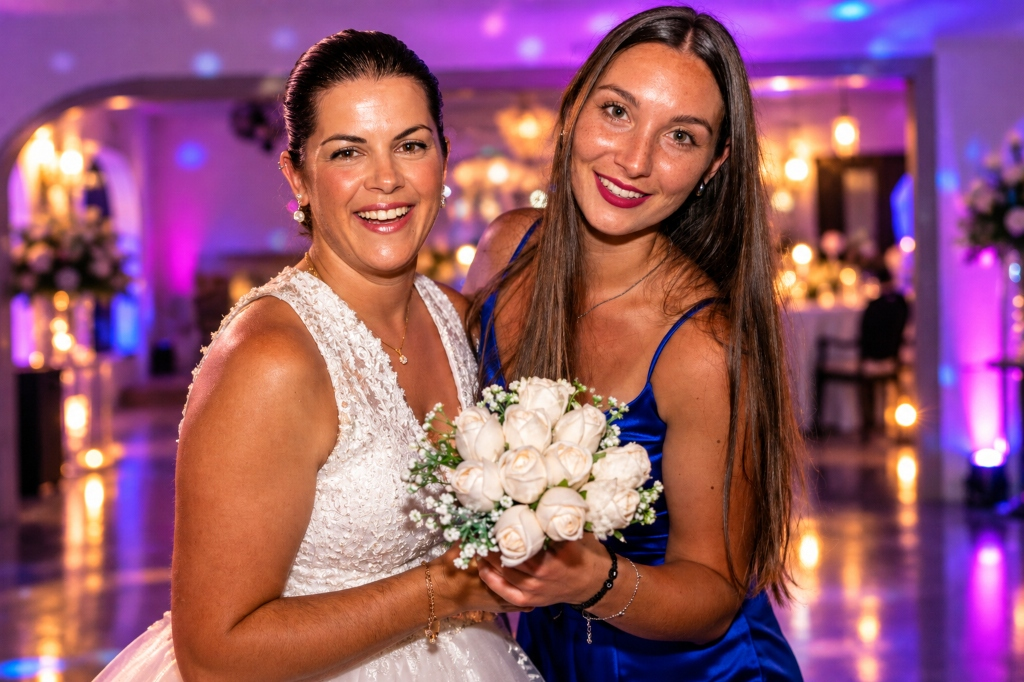
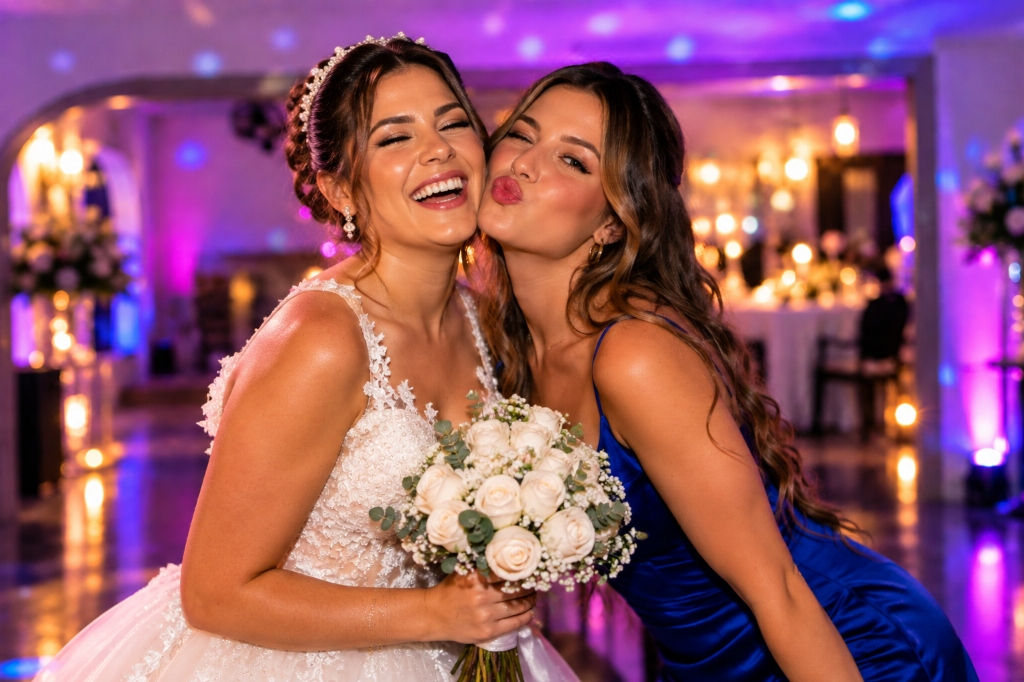
Update fotografias

diff --git a/src/data/service-details.ts b/src/data/service-details.ts
@@ -1,22 +1,22 @@
+import bodasEventoImage from '../assets/event-types/bodas-evento.jpg';
+import espejoMagicoEventoImage from '../assets/services/espejo-magico-evento.jpg';
+import fotografiaQuinceaneraImage from '../assets/services/fotografia-quinceanera.jpg';
 import espejoMagicoAccesoriosImage from '../assets/service-details/espejo-magico/espejo-magico-accesorios.jpg';
 import espejoMagicoFirmaImage from '../assets/service-details/espejo-magico/espejo-magico-firma.jpg';
 import espejoMagicoInteraccionImage from '../assets/service-details/espejo-magico/espejo-magico-interaccion.jpg';
 import espejoMagicoTirasXxlImage from '../assets/service-details/espejo-magico/espejo-magico-tiras-xxl.png';
-import filmacionEventoImage from '../assets/services/filmacion-evento.jpg';
-import fotografiaAbuelaNietaImage from '../assets/service-details/fotografia/fotografia-abuela-nieta.jpg';
 import fotografiaAlasIridiscentesImage from '../assets/service-details/fotografia/fotografia-alas-iridiscentes.jpg';
 import fotografiaAlasPistaImage from '../assets/service-details/fotografia/fotografia-alas-pista.jpg';
 import fotografiaAmigasVaquerasImage from '../assets/service-details/fotografia/fotografia-amigas-vaqueras.jpg';
 import fotografiaAmigasVelaImage from '../assets/service-details/fotografia/fotografia-amigas-vela.jpg';
 import fotografiaAmigosBrindisImage from '../assets/service-details/fotografia/fotografia-amigos-brindis.jpg';
 import fotografiaBebeJardinImage from '../assets/service-details/fotografia/fotografia-bebe-jardin.jpg';
-import fotografiaBodaRamoImage from '../assets/service-details/fotografia/fotografia-boda-ramo.jpg';
 import fotografiaCumpleanos80VelasImage from '../assets/service-details/fotografia/fotografia-cumpleanos-80-velas.jpg';
-import fotografiaNinasAntifazImage from '../assets/service-details/fotografia/fotografia-ninas-antifaz.jpg';
 import fotografiaQuinceaneraCorredorImage from '../assets/service-details/fotografia/fotografia-quinceanera-corredor.jpg';
+import fotografiaRetratoNeonImage from '../assets/service-details/fotografia/fotografia-retrato-neon.jpg';
 import fotografiaRetratoVestidoRosaImage from '../assets/service-details/fotografia/fotografia-retrato-vestido-rosa.jpg';
 import fotografiaSoplandoVelasImage from '../assets/service-details/fotografia/fotografia-soplando-velas.jpg';
-import fotografiaValsPadreImage from '../assets/service-details/fotografia/fotografia-vals-padre.jpg';
+import fotografiaBodaCotillonImage from '../assets/service-details/fotografia/fotografia-boda-cotillon.jpg';
 import partycubeBodaAccesoriosImage from '../assets/service-details/partycube/partycube-boda-accesorios.jpg';
 import partycubeInvitadosCotillonImage from '../assets/service-details/partycube/partycube-invitados-cotillon.jpg';
 import partycubeInvitadosSombrerosImage from '../assets/service-details/partycube/partycube-invitados-sombreros.jpg';
@@ -27,8 +27,6 @@ import partyrbotInteraccionInvitadosImage from '../assets/service-details/partyr
 import type { Service, ServiceDetail } from '../types/service';
 import { services } from './services';
 
-const fotografia = services.find((service) => service.id === 'fotografia')!;
-const espejoMagico = services.find((service) => service.id === 'espejo-magico')!;
 const cabinaBoomerang = services.find((service) => service.id === 'cabina-boomerang')!;
 const robotLed = services.find((service) => service.id === 'robot-led')!;
 
@@ -44,7 +42,12 @@ export const serviceDetails: readonly ServiceDetail[] = [
         'Espejo Mágico es mucho más que una cabina de fotos: es una experiencia interactiva que suma diversión a tu evento, invita a todos a participar y captura esos momentos espontáneos que hacen única cada celebración.',
         'Fotos impresas al instante y listas para descargar en tu celular, para que cada invitado se lleve un recuerdo especial.',
       ],
-      image: espejoMagico.image,
+      image: {
+        src: espejoMagicoEventoImage,
+        alt: 'Dos personas posando con accesorios frente a una cortina metálica azul y violeta durante una experiencia de Espejo Mágico.',
+        width: 1024,
+        height: 706,
+      },
       highlights: [
         'Impresiones ilimitadas',
         'Descarga al celular',
@@ -125,7 +128,7 @@ export const serviceDetails: readonly ServiceDetail[] = [
       openGraphTitle: 'Espejo Mágico | PartyTime Uruguay',
       openGraphDescription:
         'Una experiencia interactiva con impresiones ilimitadas, descarga al celular y recuerdos personalizados para tu celebración.',
-      openGraphImage: espejoMagico.image.src,
+      openGraphImage: espejoMagicoEventoImage,
     },
   },
   {
@@ -402,8 +405,8 @@ export const serviceDetails: readonly ServiceDetail[] = [
         'Una mirada natural y cuidada para que, cuando vuelvas a ver las fotos, puedas volver a sentir ese momento.',
       ],
       image: {
-        src: filmacionEventoImage,
-        alt: 'Joven sonriendo con naturalidad durante una celebración iluminada con luces cálidas.',
+        src: fotografiaRetratoNeonImage,
+        alt: 'Quinceañera sonriendo apoyada sobre una mesa de vidrio frente a un cartel de neón durante una celebración.',
         width: 683,
         height: 1024,
         objectPosition: 'center',
@@ -455,10 +458,10 @@ export const serviceDetails: readonly ServiceDetail[] = [
           'Realizamos un trabajo profesional pensado para conservar la belleza, las personas y las emociones de este día en imágenes de alta calidad que puedan volver a disfrutarse con el paso del tiempo.',
         ],
         image: {
-          src: fotografiaValsPadreImage,
-          alt: 'Quinceañera riendo mientras baila el vals con su padre frente a los invitados.',
+          src: fotografiaBodaCotillonImage,
+          alt: 'Novia e invitados posando con sombreros de cotillón y collares hawaianos durante la fiesta.',
           width: 1024,
-          height: 682,
+          height: 683,
           objectPosition: 'center',
         },
         featured: true,
@@ -487,10 +490,10 @@ export const serviceDetails: readonly ServiceDetail[] = [
         objectPosition: 'center',
       },
       {
-        src: fotografiaBodaRamoImage,
-        alt: 'Novia con ramo de rosas blancas junto a una invitada sonriendo durante la fiesta.',
-        width: 1536,
-        height: 1024,
+        src: bodasEventoImage,
+        alt: 'Invitada besando en la mejilla a una novia que sostiene un ramo de rosas blancas durante la fiesta.',
+        width: 1024,
+        height: 682,
         objectPosition: 'center',
       },
       {
@@ -501,17 +504,10 @@ export const serviceDetails: readonly ServiceDetail[] = [
         objectPosition: 'center',
       },
       {
-        src: fotografiaAbuelaNietaImage,
-        alt: 'Abuela y nieta abrazadas celebrando frente a una torta con el número 80.',
-        width: 1536,
-        height: 1024,
-        objectPosition: 'center',
-      },
-      {
         src: fotografiaAmigosBrindisImage,
-        alt: 'Grupo de amigos brindando con cotillón y collares en la pista de baile.',
-        width: 1536,
-        height: 1024,
+        alt: 'Grupo de amigos festejando con collares hawaianos y varitas luminosas en la pista de baile.',
+        width: 1024,
+        height: 682,
         objectPosition: 'center',
       },
       {
@@ -529,13 +525,6 @@ export const serviceDetails: readonly ServiceDetail[] = [
         objectPosition: 'center',
       },
       {
-        src: fotografiaNinasAntifazImage,
-        alt: 'Dos niñas posando con sombrero vaquero y antifaz dorado frente a una cortina metálica.',
-        width: 1536,
-        height: 1024,
-        objectPosition: 'center',
-      },
-      {
         src: fotografiaBebeJardinImage,
         alt: 'Bebé sentado sobre una manta en un jardín iluminado durante un cumpleaños.',
         width: 1536,
@@ -545,15 +534,8 @@ export const serviceDetails: readonly ServiceDetail[] = [
       {
         src: fotografiaAlasPistaImage,
         alt: 'Joven bailando con alas iridiscentes en la pista iluminada con luces de colores.',
-        width: 1536,
-        height: 1024,
-        objectPosition: 'center',
-      },
-      {
-        src: fotografiaSoplandoVelasImage,
-        alt: 'Quinceañera soplando las velas doradas número 15 sobre su torta rodeada de flores.',
         width: 1024,
-        height: 683,
+        height: 682,
         objectPosition: 'center',
       },
     ],
@@ -572,7 +554,7 @@ export const serviceDetails: readonly ServiceDetail[] = [
       openGraphTitle: 'Fotografía | PartyTime Uruguay',
       openGraphDescription:
         'Imágenes auténticas, espontáneas y llenas de vida que cuentan la historia de tu celebración, de principio a fin.',
-      openGraphImage: fotografia.image.src,
+      openGraphImage: fotografiaQuinceaneraImage,
     },
   },
   {

diff --git a/src/data/services.ts b/src/data/services.ts
@@ -1,8 +1,8 @@
-import cabinaBoomerangImage from '../assets/services/cabina-boomerang-evento.jpg';
-import espejoMagicoImage from '../assets/services/espejo-magico-evento.jpg';
+import cabinaBoomerangImage from '../assets/services/cabina-boomerang-evento.png';
+import espejoMagicoImage from '../assets/services/espejo-magico-pareja-accesorios.jpg';
 import exterioresImage from '../assets/services/exteriores-sesion-exterior.jpg';
 import filmacionImage from '../assets/services/filmacion-evento.jpg';
-import fotografiaImage from '../assets/services/fotografia-quinceanera.jpg';
+import fotografiaImage from '../assets/service-details/fotografia/fotografia-quinceanera-corredor.jpg';
 import ososTeddyImage from '../assets/services/osos-teddy-evento.jpg';
 import partypicImage from '../assets/services/partypic-evento.jpg';
 import plataforma360Image from '../assets/services/plataforma-360-evento.jpg';
@@ -19,9 +19,9 @@ export const services: readonly Service[] = [
     detailPath: '/servicios/fotografia',
     image: {
       src: fotografiaImage,
-      alt: 'Quinceañera con tiara junto a un arreglo floral durante una celebración con decoración violeta.',
-      width: 1024,
-      height: 682,
+      alt: 'Quinceañera de espaldas mirando por el hombro en un corredor iluminado con luces violetas y azules.',
+      width: 1536,
+      height: 1024,
     },
   },
   {
@@ -34,7 +34,7 @@ export const services: readonly Service[] = [
       src: filmacionImage,
       alt: 'Mujer sonriendo durante un evento iluminado con luces cálidas y detalles azules.',
       width: 683,
-      height: 1024,
+      height: 512,
     },
   },
   {
@@ -60,7 +60,7 @@ export const services: readonly Service[] = [
     detailPath: '/servicios/espejo-magico',
     image: {
       src: espejoMagicoImage,
-      alt: 'Dos personas posando con accesorios frente a una cortina metálica azul y violeta durante una experiencia de Espejo Mágico.',
+      alt: 'Pareja posando con anteojos de corazón y orejas de conejo frente a una cortina metálica azul y violeta durante una experiencia de Espejo Mágico.',
       width: 1024,
       height: 706,
     },
@@ -75,8 +75,8 @@ export const services: readonly Service[] = [
     image: {
       src: cabinaBoomerangImage,
       alt: 'Mujer posando con anteojos frente a una cortina metálica azul y magenta durante una experiencia de Cabina Boomerang.',
-      width: 1024,
-      height: 683,
+      width: 1535,
+      height: 1025,
     },
   },
   {
